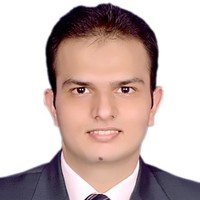
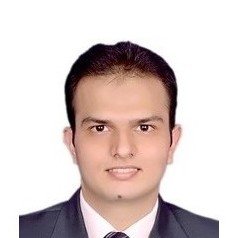
updated photos

diff --git a/html/alumini.html b/html/alumini.html
@@ -138,7 +138,7 @@
     <div class="blogs-heading">
       <div class="blogs-heading1">OUR ALUMNI</div>
       <div class="blogs-heading2">
-        Legends who contributed mightily to the success and development of our team.
+        Legends who've contributed mightily to the success and development of our team.
       </div>
     </div>
     <div class="alumini-all">
@@ -567,7 +567,7 @@
                   </div>
                 </div>
                 <div class="member alumini-member">
-                  <div class="alumini-member-image"style='background-image: url("../alumini-photos/Utkarsh Srivastava-fb(2018).jpg");' >  </div>
+                  <div class="alumini-member-image"style='background-image: url("../alumini-photos/Copy of Utkarsh Shrivastava.JPG");' >  </div>
                   <div class="alumini-member-name">Utkarsh Srivastava</div>
                   <div class="alumini-member-position">ASIC Development Engineer  </div>
                   <div class="alumini-member-company">Western Digital</div>
@@ -584,7 +584,7 @@
                   </div>
                 </div>
                 <div class="member alumini-member">
-                  <div class="alumini-member-image"style='background-image: url("../alumini-photos/Amarendra Mishra-fb(2018).JPG");' >  </div>
+                  <div class="alumini-member-image"style='background-image: url("../alumini-photos/Copy of Amarendra Mishra.JPG");' >  </div>
                   <div class="alumini-member-name">Amarendra Mishra</div>
                   <div class="alumini-member-position">Analog Engineer  </div>
                   <div class="alumini-member-company">Texas Instruments</div>
@@ -601,7 +601,7 @@
                   </div>
                 </div>
                  <div class="member alumini-member">
-                  <div class="alumini-member-image"style='background-image: url("../alumini-photos/Nitish Dhanalia.jpg");' >  </div>
+                  <div class="alumini-member-image"style='background-image: url("../alumini-photos/Copy of Nitish kumar - Structural.jpg");' >  </div>
                   <div class="alumini-member-name">Nitish Dhanalia</div>
                   <div class="alumini-member-position">Mechanical Engineer </div>
                   <div class="alumini-member-company">Log 9 Materials</div>
@@ -618,7 +618,7 @@
                   </div>
                 </div>
                 <div class="member alumini-member">
-                  <div class="alumini-member-image"style='background-image: url("../alumini-photos/Abhishek Gupta-fb(2016).JPG");' >  </div>
+                  <div class="alumini-member-image"style='background-image: url("../alumini-photos/Copy of Abhishek Gupta.JPG");' >  </div>
                   <div class="alumini-member-name">Abhishek Gupta</div>
                   <div class="alumini-member-position">PhD, Mechanical Engineering  </div>
                   <div class="alumini-member-company">University of Wisconsin-Madison </div>
@@ -635,7 +635,7 @@
                   </div>
                 </div>
                 <div class="member alumini-member">
-                  <div class="alumini-member-image"style='background-image: url("../alumini-photos/Ayush Sharma-LinkedIn.jpg");' >  </div>
+                  <div class="alumini-member-image"style='background-image: url("../alumini-photos/Copy of Ayush Sharma.jpg");' >  </div>
                   <div class="alumini-member-name">Ayush Sharma</div>
                   <div class="alumini-member-position"></div>
                   <div class="alumini-member-company"></div>
@@ -669,7 +669,7 @@
                   </div>
                 </div>
                 <div class="member alumini-member">
-                  <div class="alumini-member-image"style='background-image: url("../alumini-photos/Dhruv Vishwakarma.JPG");' >  </div>
+                  <div class="alumini-member-image"style='background-image: url("../alumini-photos/Copy of Dhruv Vishwakarma.jpg");' >  </div>
                   <div class="alumini-member-name">Dhruv Vishwakarma</div>
                   <div class="alumini-member-position">Full Stack Developer</div>
                   <div class="alumini-member-company">Pine Labs</div>
@@ -686,7 +686,7 @@
                   </div>
                 </div>
                 <div class="member alumini-member">
-                  <div class="alumini-member-image"style='background-image: url("../alumini-photos/shailesh Lelran-fb(2017).JPG");' >  </div>
+                  <div class="alumini-member-image"style='background-image: url("../alumini-photos/Copy of Shailesh Lelran.jpg");' >  </div>
                   <div class="alumini-member-name">Shailesh Lelran</div>
                   <div class="alumini-member-position">Product Associate</div>
                   <div class="alumini-member-company">Benepik</div>
@@ -1788,7 +1788,7 @@
       
               <div style="display:flex" class="alumini-members-members">
                 <div class="member alumini-member">
-                  <div class="alumini-member-image"style='background-image: url("../alumini-photos/Amey S. - Fb(2014).JPG");' >  </div>
+                  <div class="alumini-member-image"style='background-image: url("../alumini-photos/Amey S. - Fb(2013).JPG");' >  </div>
                   <div class="alumini-member-name">Amey Sahasrabuddhe</div>
                   <div class="alumini-member-position">Product Manager </div>
                   <div class="alumini-member-company">Flipkart</div>
